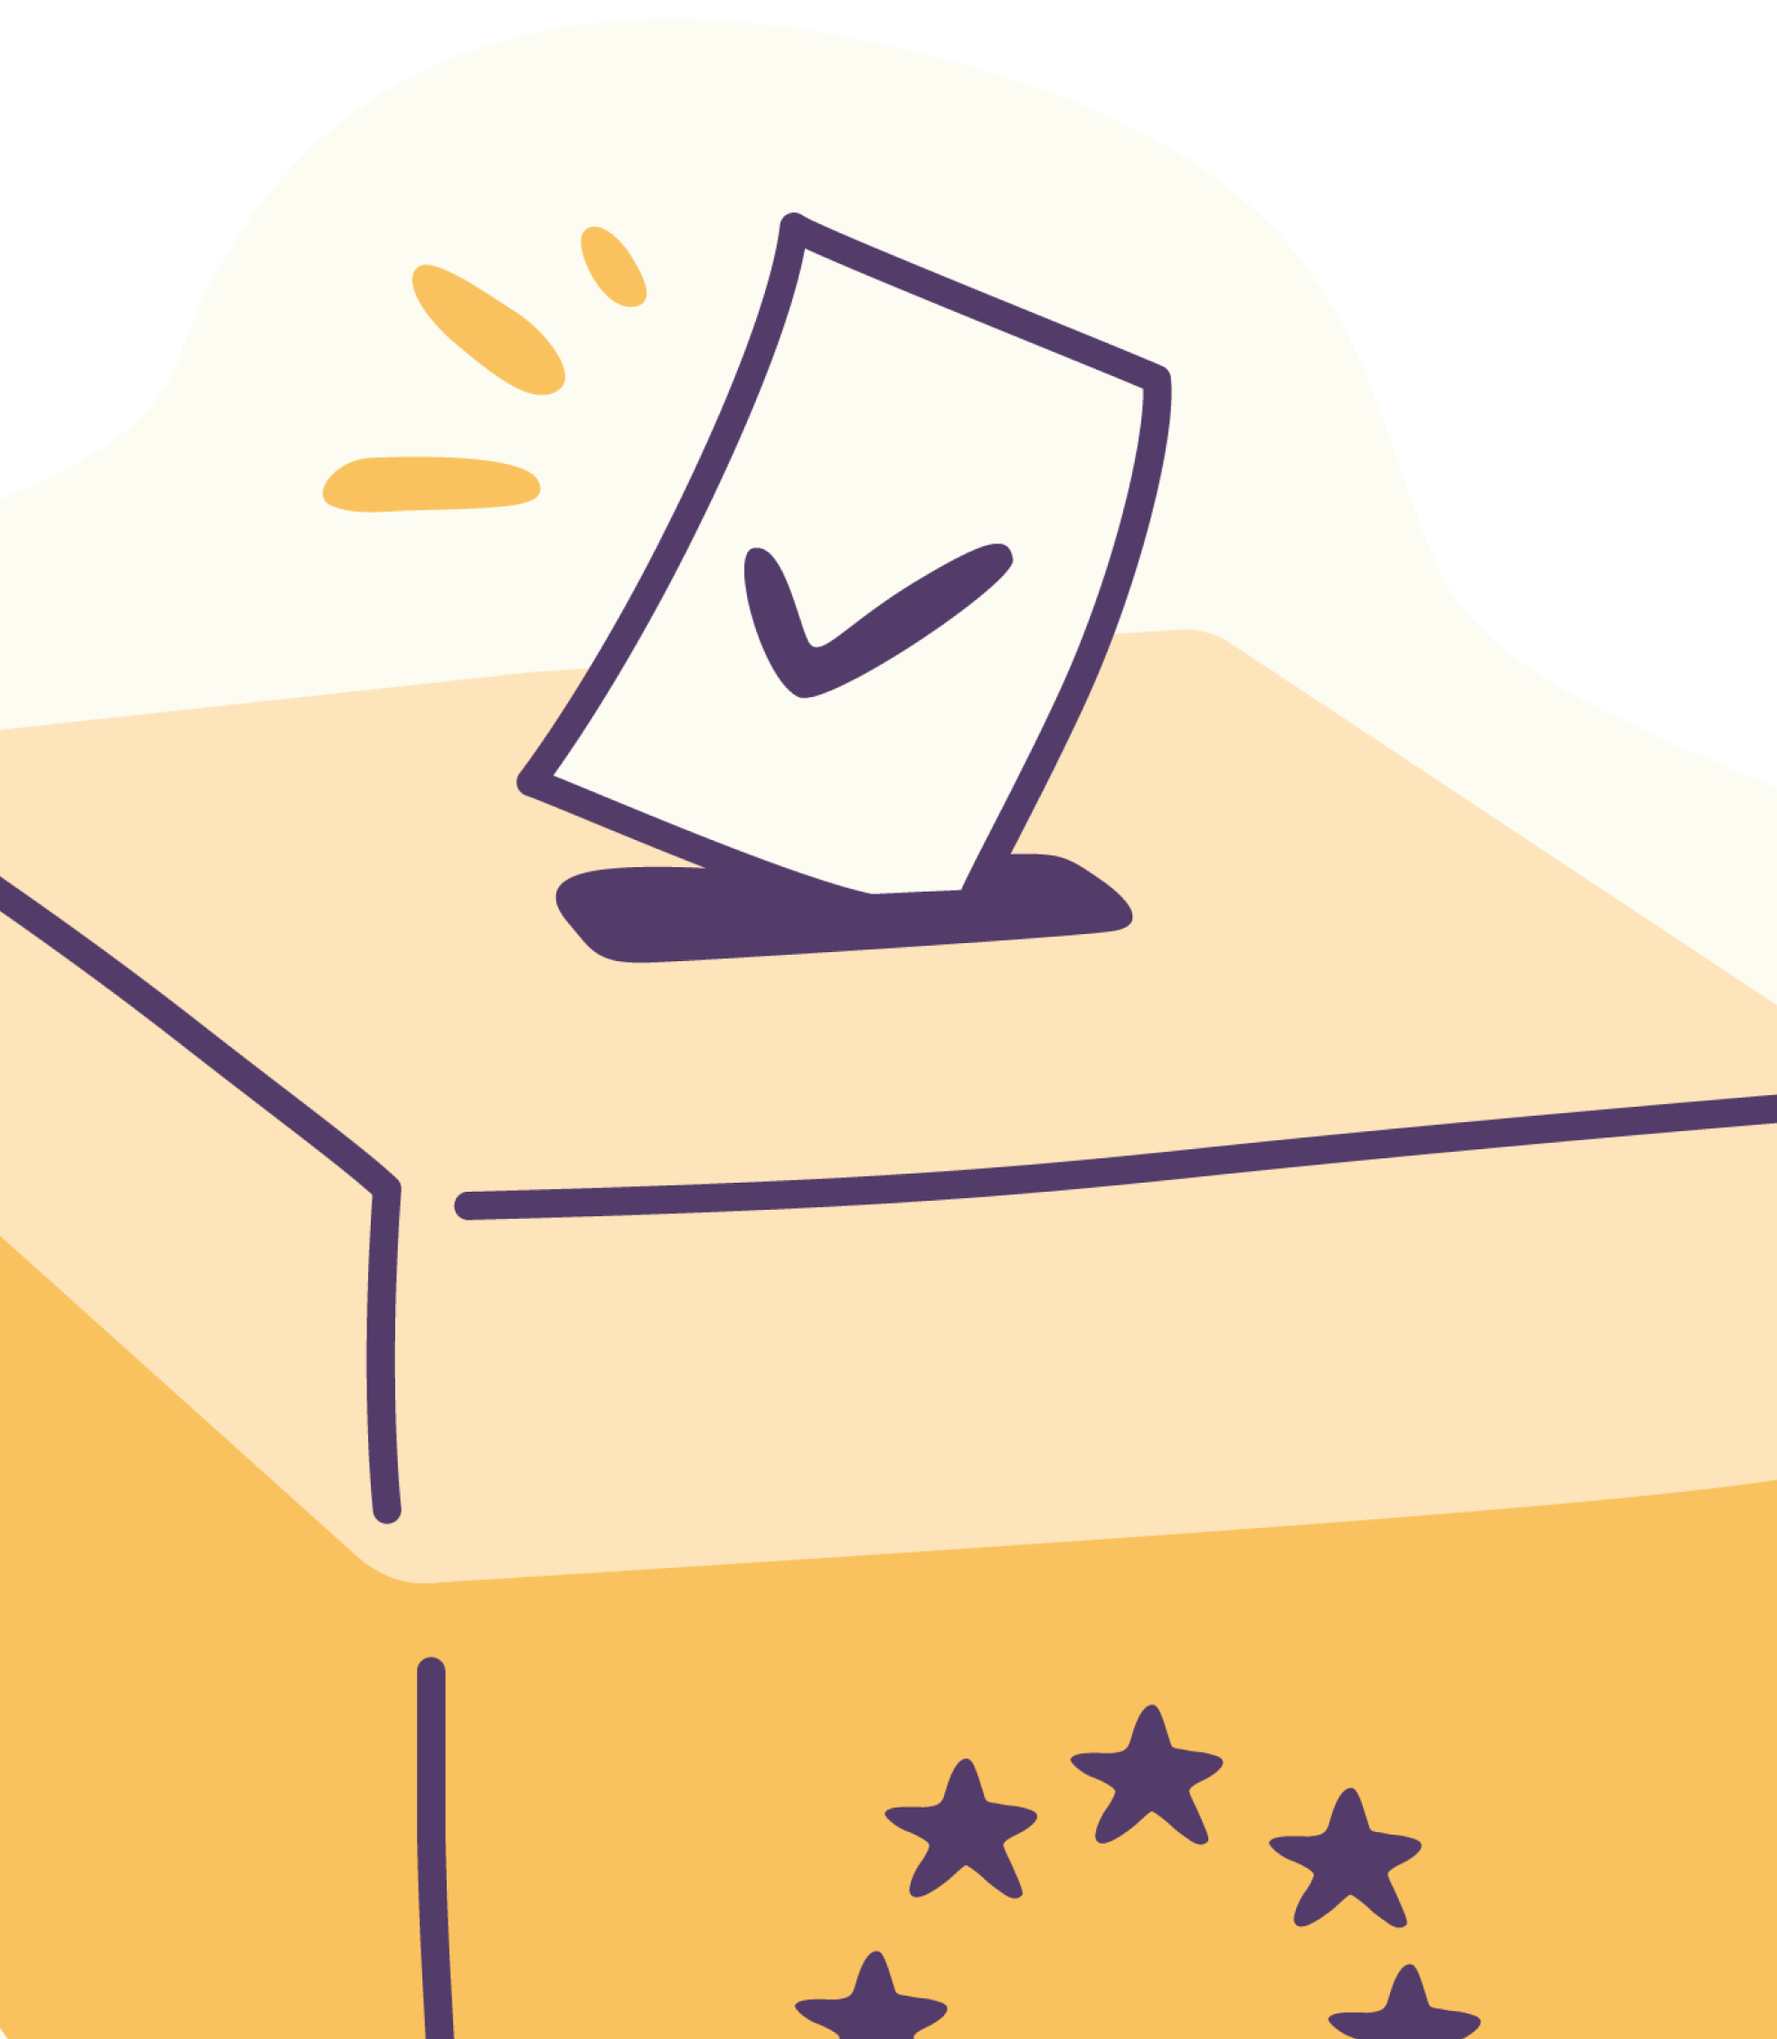
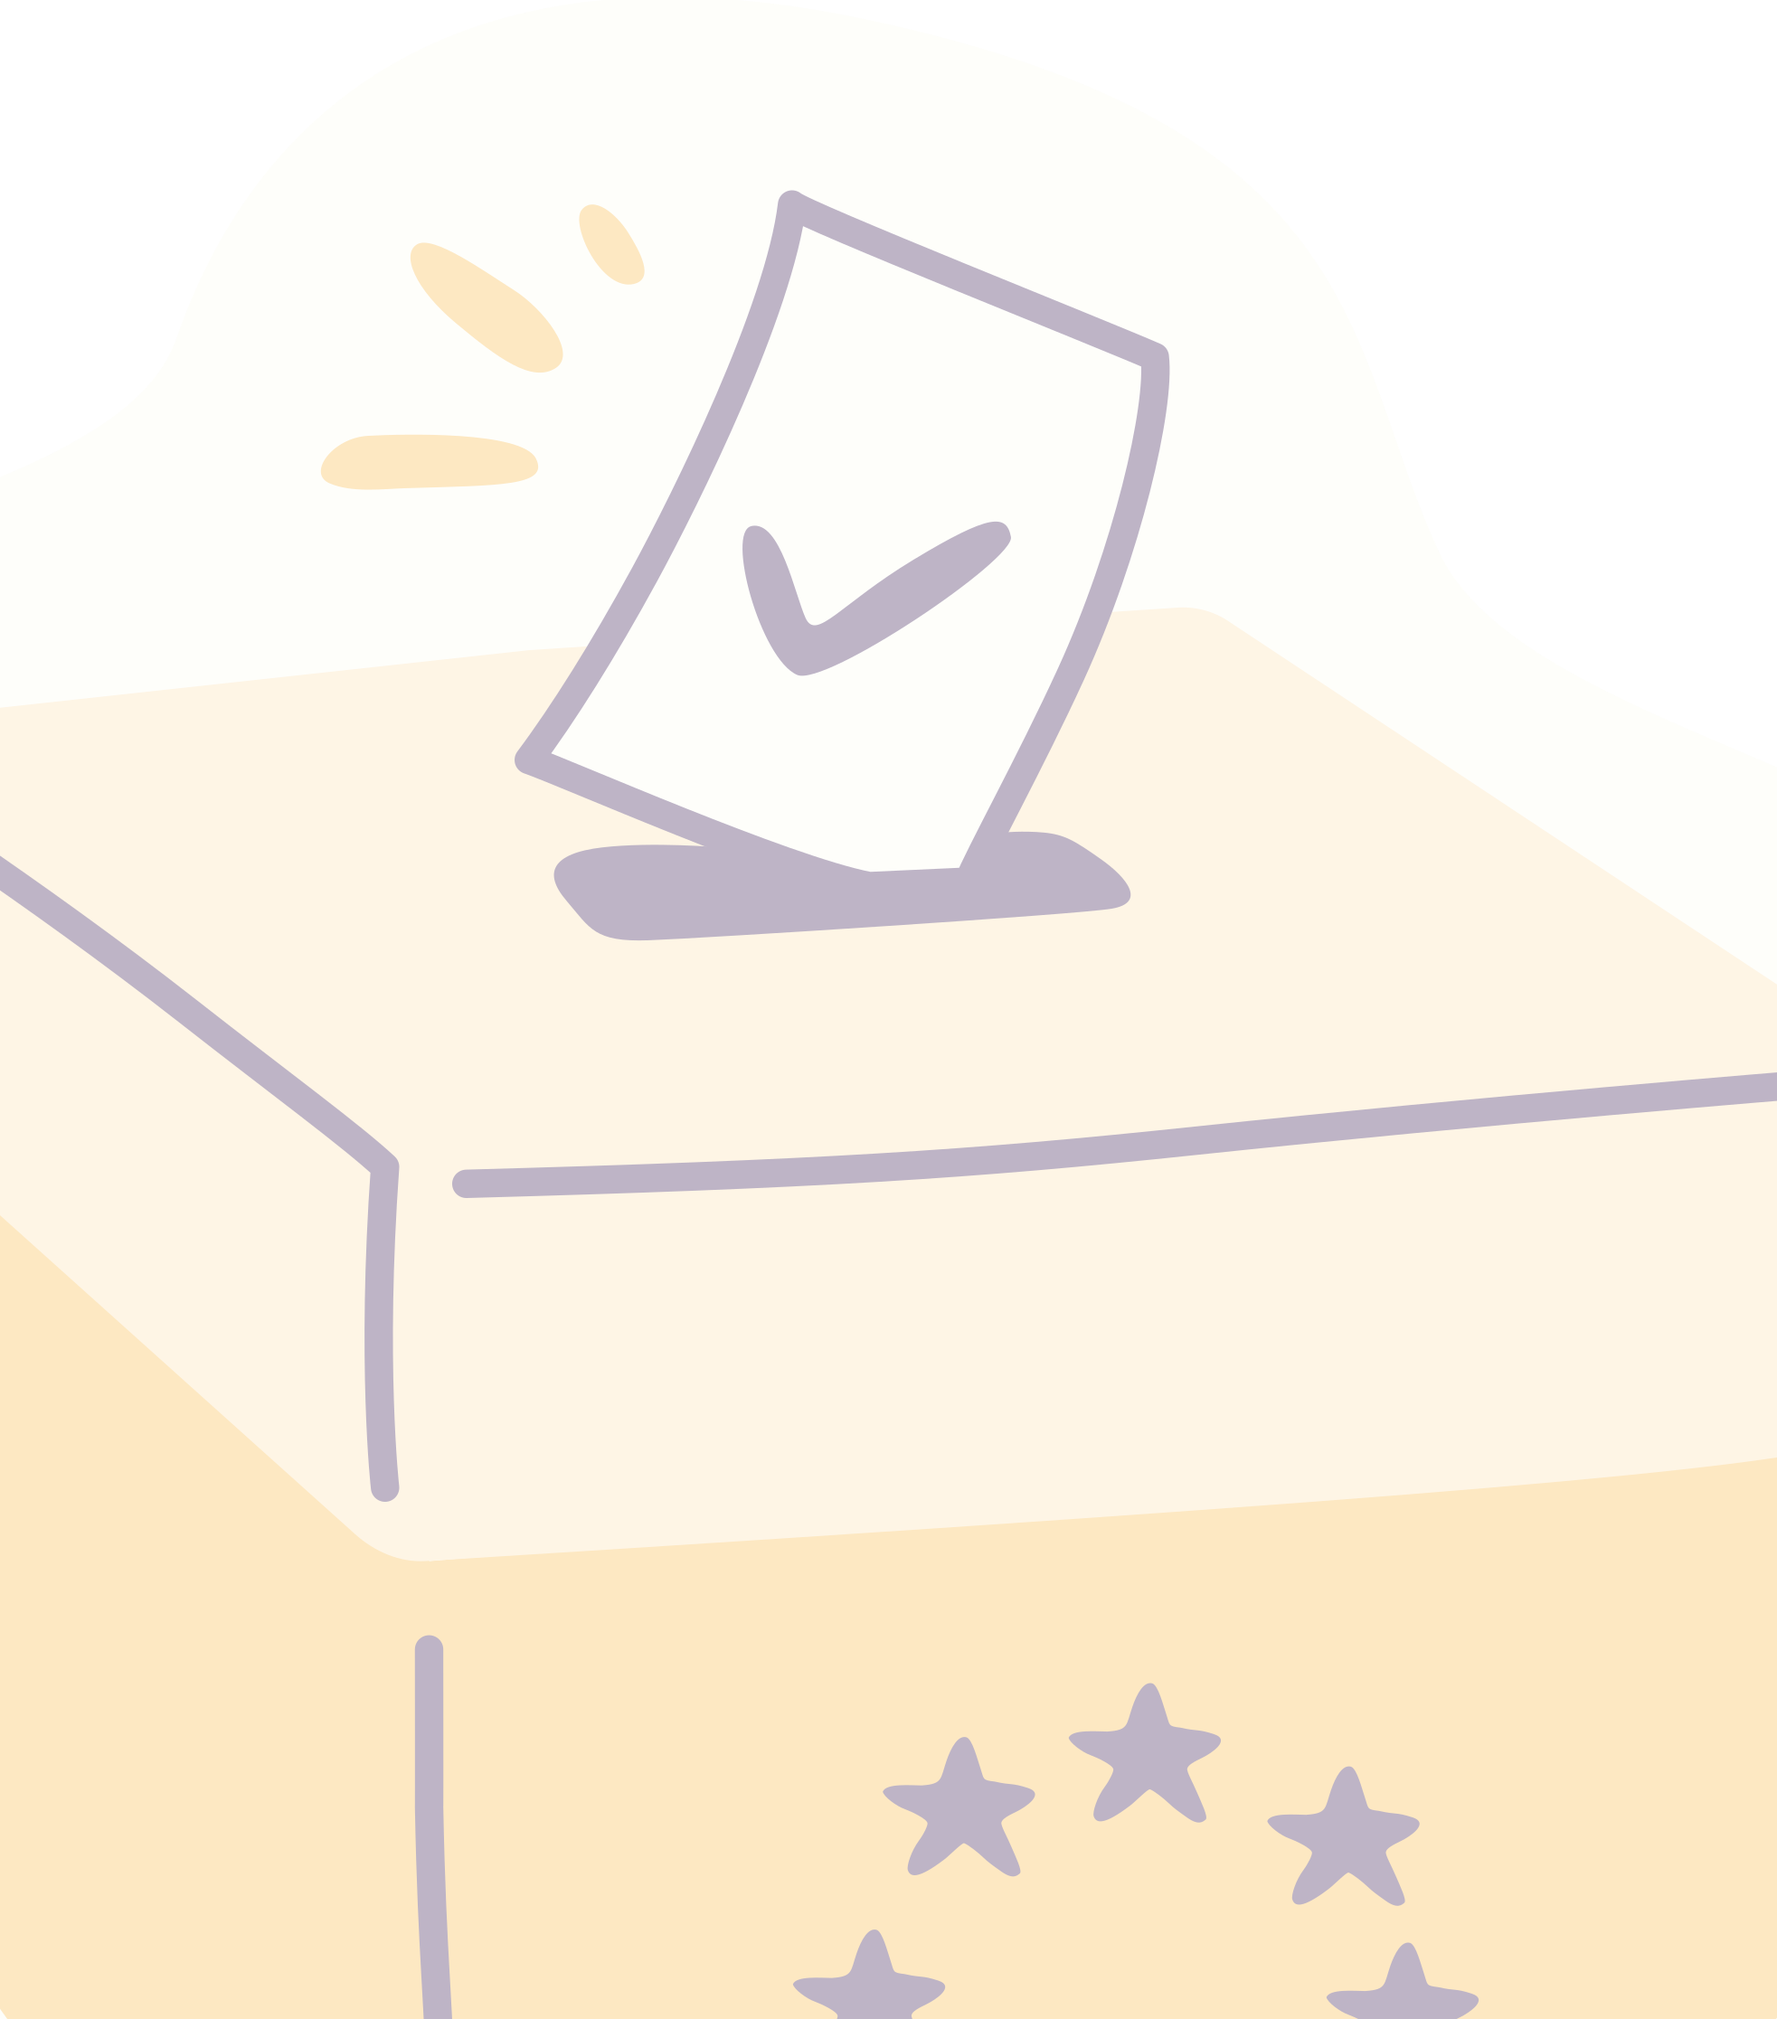
WIP eu election based images

diff --git a/lib/data/model/election.dart b/lib/data/model/election.dart
@@ -59,6 +59,15 @@ extension ElectionImages on Election {
         return 'assets/images/election/eu/ic_vote_logos_eu.svg';
     }
   }
+
+  String get swipe {
+    switch (this) {
+      case Election.DE:
+        return 'assets/images/election/de/img_swipe_de.svg';
+      case Election.EU:
+        return 'assets/images/election/eu/img_swipe_eu.svg';
+    }
+  }
 }
 
 extension ElectionTexts on Election {

diff --git a/lib/modules/home/home_page_controller.dart b/lib/modules/home/home_page_controller.dart
@@ -118,7 +118,7 @@ class HomePageController extends GetxController {
     if (index == 0) {
       return election.pigeon;
     } else if (index == 1) {
-      return 'assets/images/img_swipe.svg';
+      return election.swipe;
     }
     return 'assets/images/img_results.svg';
   }

diff --git a/lib/modules/welcome/entrance/entrance_controller.dart b/lib/modules/welcome/entrance/entrance_controller.dart
@@ -35,7 +35,7 @@ class EntranceController extends GetxController {
     if (index == 0) {
       return election.pigeon;
     } else if (index == 1) {
-      return 'assets/images/img_swipe.svg';
+      return election.swipe;
     }
     return 'assets/images/img_results.svg';
   }
